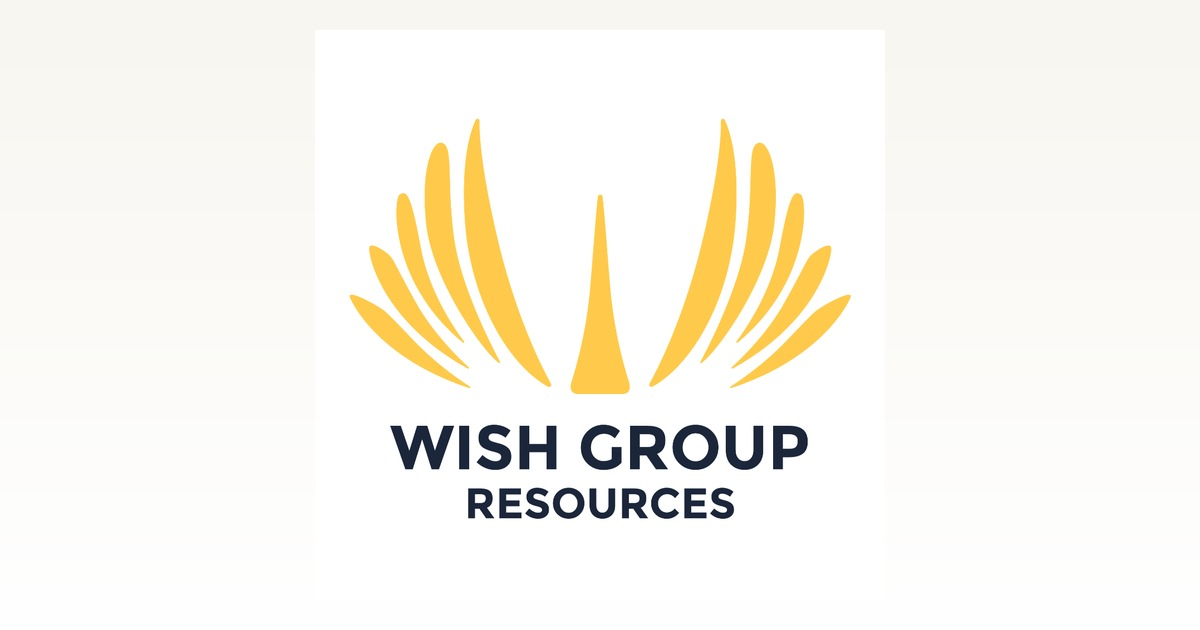
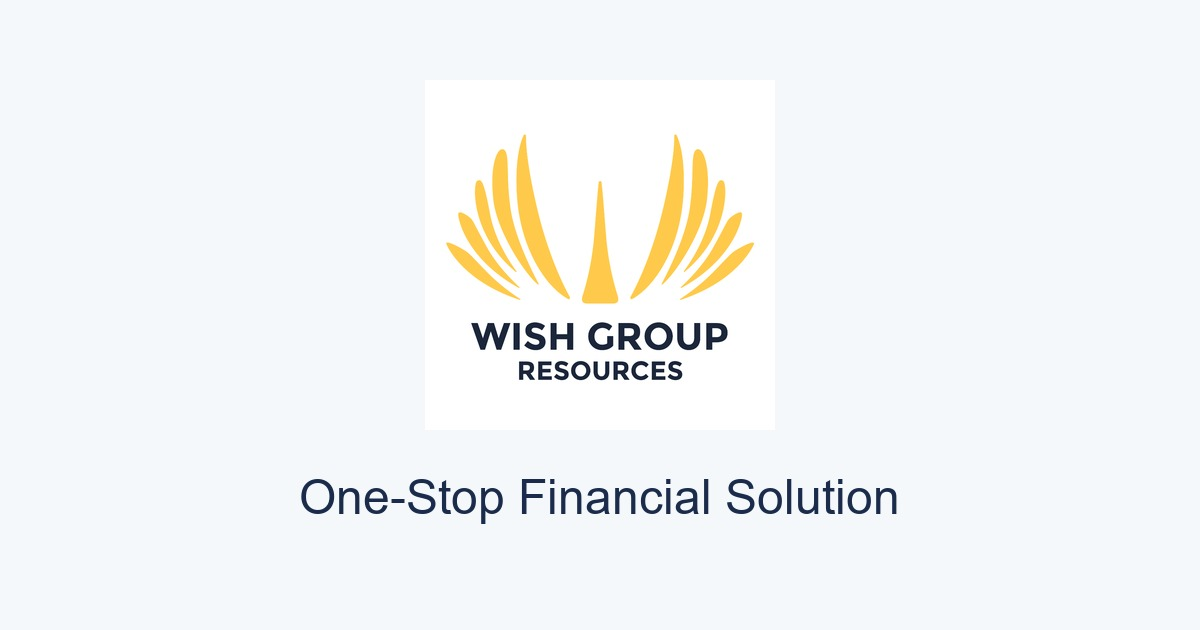
Add files via upload

Changed region(s): [[0.2775, 0.181, 0.7092, 0.6333], [0.2467, 0.6635, 0.7708, 0.8444]]

diff --git a/create_social_card.py b/create_social_card.py
@@ -1,0 +1,63 @@
+from PIL import Image, ImageDraw, ImageFont
+
+# Create a "social media style" card with text ON the image
+target_size = (1200, 630)
+source_path = 'c:/Users/ASUS/Desktop/holysheet/holysheet/public_html/images/wish-logo-source.png'
+output_path = 'c:/Users/ASUS/Desktop/holysheet/holysheet/public_html/images/wish-group-cardv2.jpg'
+
+try:
+    logo = Image.open(source_path)
+    
+    # Create canvas with a light colored background (not white)
+    bg_color = (245, 248, 250)  # Light blue-gray
+    canvas = Image.new("RGB", target_size, bg_color)
+    draw = ImageDraw.Draw(canvas)
+    
+    # Add logo in the center-top area
+    logo_height = 350
+    aspect_ratio = logo.width / logo.height
+    logo_width = int(logo_height * aspect_ratio)
+    
+    resized_logo = logo.resize((logo_width, logo_height), Image.Resampling.LANCZOS)
+    
+    logo_x = (target_size[0] - logo_width) // 2
+    logo_y = 80
+    
+    if logo.mode == 'RGBA':
+        canvas.paste(resized_logo, (logo_x, logo_y), resized_logo)
+    else:
+        canvas.paste(resized_logo, (logo_x, logo_y))
+    
+    # Add text at the bottom to make it look like a social post
+    try:
+        font_large = ImageFont.truetype("arial.ttf", 48)
+        font_small = ImageFont.truetype("arial.ttf", 24)
+    except:
+        font_large = ImageFont.load_default()
+        font_small = ImageFont.load_default()
+    
+    # Add title text
+    title = "One-Stop Financial Solution"
+    text_y = logo_y + logo_height + 40
+    
+    # Center the text
+    bbox = draw.textbbox((0, 0), title, font=font_large)
+    text_width = bbox[2] - bbox[0]
+    text_x = (target_size[0] - text_width) // 2
+    
+    draw.text((text_x, text_y), title, fill=(26, 43, 76), font=font_large)
+    
+    # Save
+    canvas.save(output_path, 'JPEG', quality=92, optimize=True)
+    
+    import os
+    file_size = os.path.getsize(output_path)
+    
+    print(f"Created social-style card")
+    print(f"Size: {target_size}")
+    print(f"File: {file_size/1024:.1f} KB")
+
+except Exception as e:
+    print(f"Error: {e}")
+    import traceback
+    traceback.print_exc()
